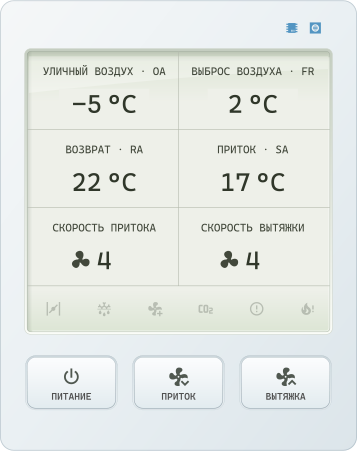
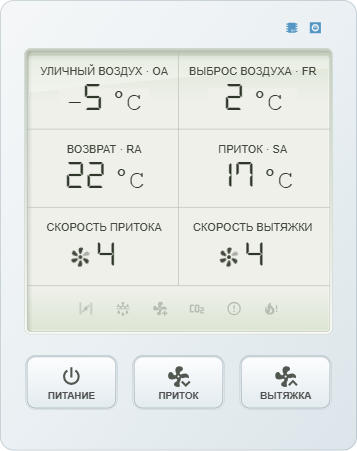
Update Hass Vent System Control panel example

diff --git a/Hass/fonts/royal-clima-lcd.css b/Hass/fonts/royal-clima-lcd.css
@@ -1,0 +1,14 @@
+/* DSEG7 Classic Regular v0.46, keshikan; see DSEG-LICENSE.txt.
+ * Source: https://github.com/keshikan/DSEG/releases/tag/v0.46
+ * Copy this folder to /config/www/fonts/.
+ * Add /local/fonts/royal-clima-lcd.css?v=1 as a dashboard resource, type: css.
+ * Digits, minus and decimal point only; units and words use the fallback font.
+ */
+@font-face {
+  font-family: "RoyalClimaLCD";
+  src: url("./DSEG7Classic-Regular.woff2") format("woff2");
+  font-style: normal;
+  font-weight: 400;
+  font-display: swap;
+  unicode-range: U+002D-002E, U+0030-0039;
+}

diff --git a/readme.md b/readme.md
@@ -1,6 +1,5 @@
 <p align="center">
   <img src="images/royalclima.png" style="max-width: 100%; height: auto; display: block;" alt="Royal Clima">
-#+#
   <img src="images/esp32.jpg" style="max-width: 50%; height: auto; display: block;" alt="ESP32">
   <img src="images/ha.png" style="max-width: 50%; height: auto; display: block;" alt="Home Assistant">
 </p>
@@ -16,7 +15,7 @@ ESP32 позволяет получать показания и управлят
 - Скомпилированные прошивки для ESP32: [firmware для первоначальной установки](bin/royalclima-firmware.factory.bin) и [OTA для обновления](bin/royalclima-firmware.ota.bin).
 - [Конфигурацию для ESPHome](ESPHome/RoyalClima.yaml).
 - [Документацию](docs/): [руководство SOFFIO Primo](docs/2020_RC_Manual_Soffio-Primo.pdf) и [протокол Modbus DC (Primo)](docs/Modbus%20protocol%20-%20DC%20%28Primo%29.pdf).
-- Файлы для использования в Hass: [пакет шаблонов и управления](Hass/packages/royal_clima.yaml), [примеры дашбордов и карточек](Hass/dashboard/) и [SVG для карточек](Hass/images/).
+- Файлы для использования в Hass: [пакет шаблонов и управления](Hass/packages/royal_clima.yaml), [примеры дашбордов и карточек](Hass/dashboard/), [SVG для карточек](Hass/images/) и [шрифты](Hass/fonts/).
 
 <p align="center">
   <img src="images/soffio.jpg" style="max-width: 100%; height: auto; display: block;" alt="ПВУ">
@@ -285,26 +284,31 @@ api:
 | [royal-clima-vent-tab.yaml](Hass/dashboard/royal-clima-vent-tab.yaml) | Полная вкладка «ПВУ» с управлением, графиками и диагностикой | [Mushroom](https://github.com/piitaya/lovelace-mushroom), [stack-in-card](https://github.com/custom-cards/stack-in-card), [fold-entity-row](https://github.com/thomasloven/lovelace-fold-entity-row) |
 
 **Пульт управления**
+
 ![Пример пульта управления](images/control_work.png)
 
 **Схема потоков — установка работает**
+
 ![Схема потоков при включённой установке](images/flow_work.png)
 
 **Схема потоков — установка выключена**
+
 ![Схема потоков при выключенной установке](images/flow_off.png)
 
 **Схема потоков — нет связи**
+
 ![Схема потоков при отсутствии связи](images/flow_unavail.png)
 
 Для установки отдельных карточек:
 
 1. Подключите пакет [royal_clima.yaml](Hass/packages/royal_clima.yaml), как описано выше, и установите необходимые дополнительные ресурсы.
-2. Скопируйте **все шесть SVG** из [Hass/images](Hass/images/) в каталог **`/config/www/images/`** Home Assistant, сохранив имена файлов. Если каталогов `www` или `images` нет, создайте их. Копировать корневой каталог `images` репозитория не нужно — он содержит иллюстрации для README.
+2. Скопируйте **все SVG** из [Hass/images](Hass/images/) в каталог **`/config/www/images/`** Home Assistant, сохранив имена файлов. Если каталогов `www` или `images` нет, создайте их. Копировать корневой каталог `images` репозитория не нужно — он содержит иллюстрации для README.
 3. В YAML уже указаны адреса `/local/images/имя-файла.svg`: например, `/config/www/images/royal-clima-panel.svg` доступен как `/local/images/royal-clima-panel.svg`. Если `www` создан впервые, перезапустите Home Assistant. См. [размещение локальных файлов в HA](https://www.home-assistant.io/integrations/http/#hosting-files).
-4. Откройте нужный дашборд → режим редактирования → «Добавить карточку» → «Вручную». Вставьте целиком YAML пульта или схемы потоков, проверьте `entity_id` и сохраните. Каждую карточку можно добавить на нужную вкладку отдельно.
-5. Для полной вкладки `royal-clima-vent-tab.yaml` используйте YAML-редактор **вкладки**, а не редактор одной карточки. Подробности — ниже. После замены SVG обновите страницу; если отображается прежняя версия, очистите кеш браузера.
+4. Для пульта скопируйте содержимое [Hass/fonts](Hass/fonts/) в `/config/www/fonts/`. В ресурсах дашборда добавьте `/local/fonts/royal-clima-lcd.css?v=1` с типом **CSS (таблица стилей)**. Без этого ресурса используется запасной шрифт `monospace`.
+5. Откройте нужный дашборд → режим редактирования → «Добавить карточку» → «Вручную». Вставьте целиком YAML пульта или схемы потоков, проверьте `entity_id` и сохраните. Каждую карточку можно добавить на нужную вкладку отдельно.
+6. Для полной вкладки `royal-clima-vent-tab.yaml` используйте YAML-редактор **вкладки**, а не редактор одной карточки. Подробности — ниже. После замены SVG, шрифтов или CSS обновите страницу; если отображается прежняя версия, очистите кеш браузера.
 
-Карточки используют штатный тип `picture-elements`. Вращение вентиляторов означает включённую установку и ненулевую ступень, а стрелки — направления потоков.
+Карточки используют штатный тип `picture-elements`. Анимация вентиляторов означает включённую установку и ненулевую ступень, а стрелки — направления потоков.
 
 ### Пример дашборда
 
